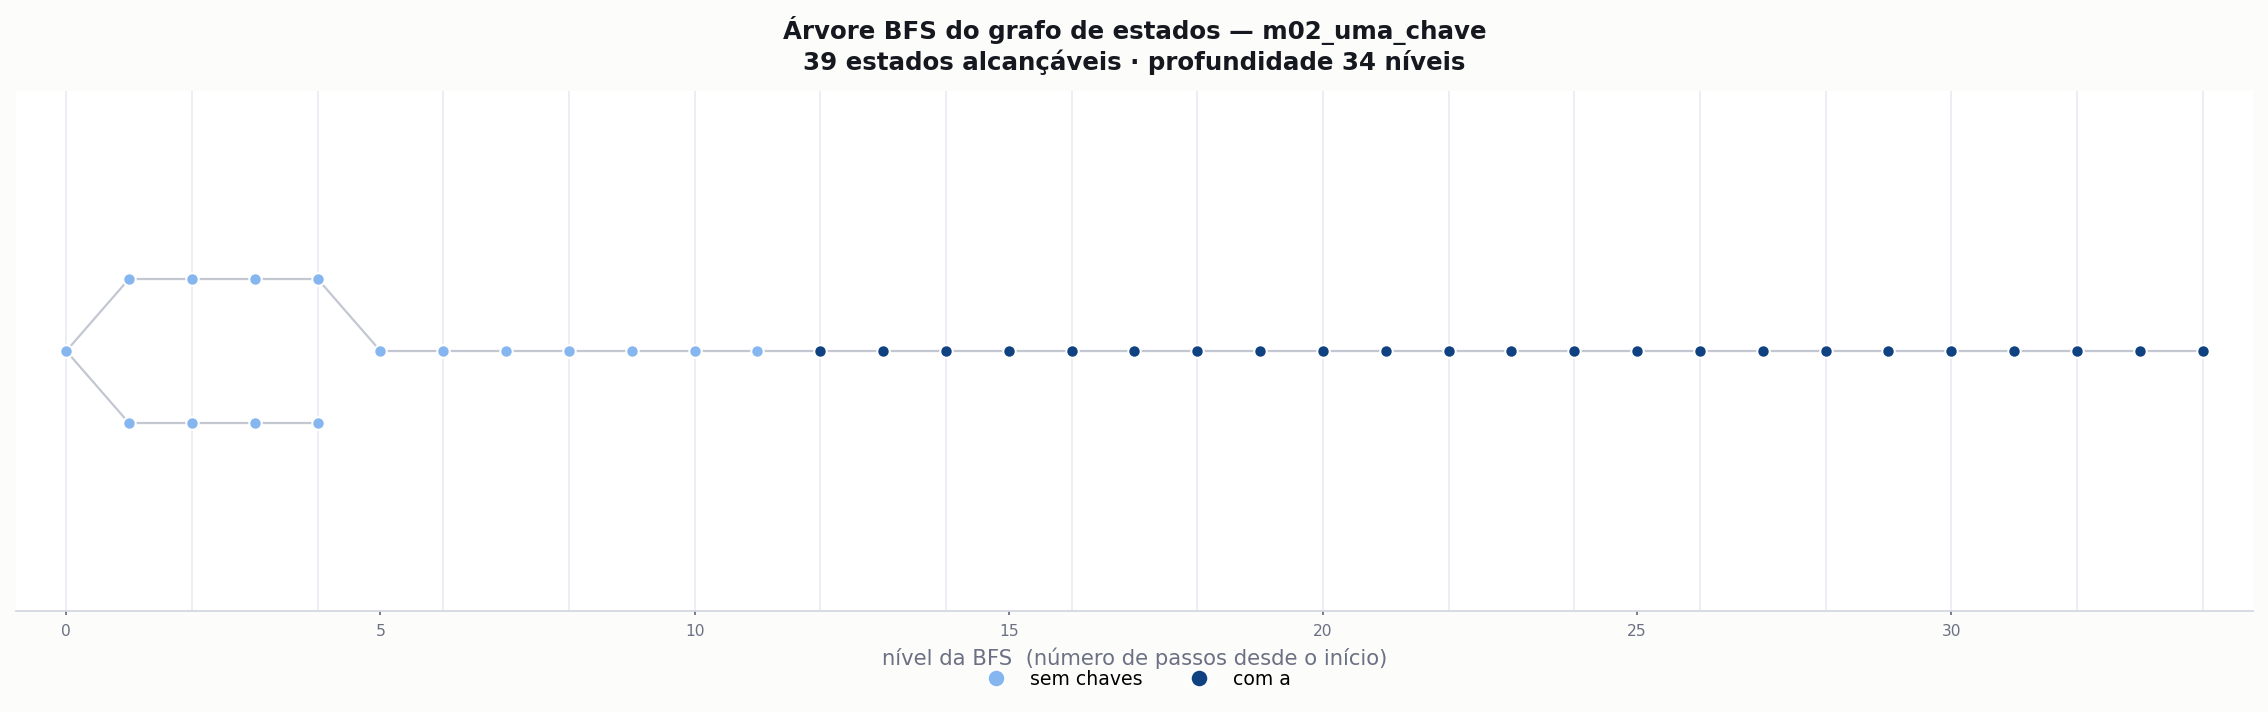
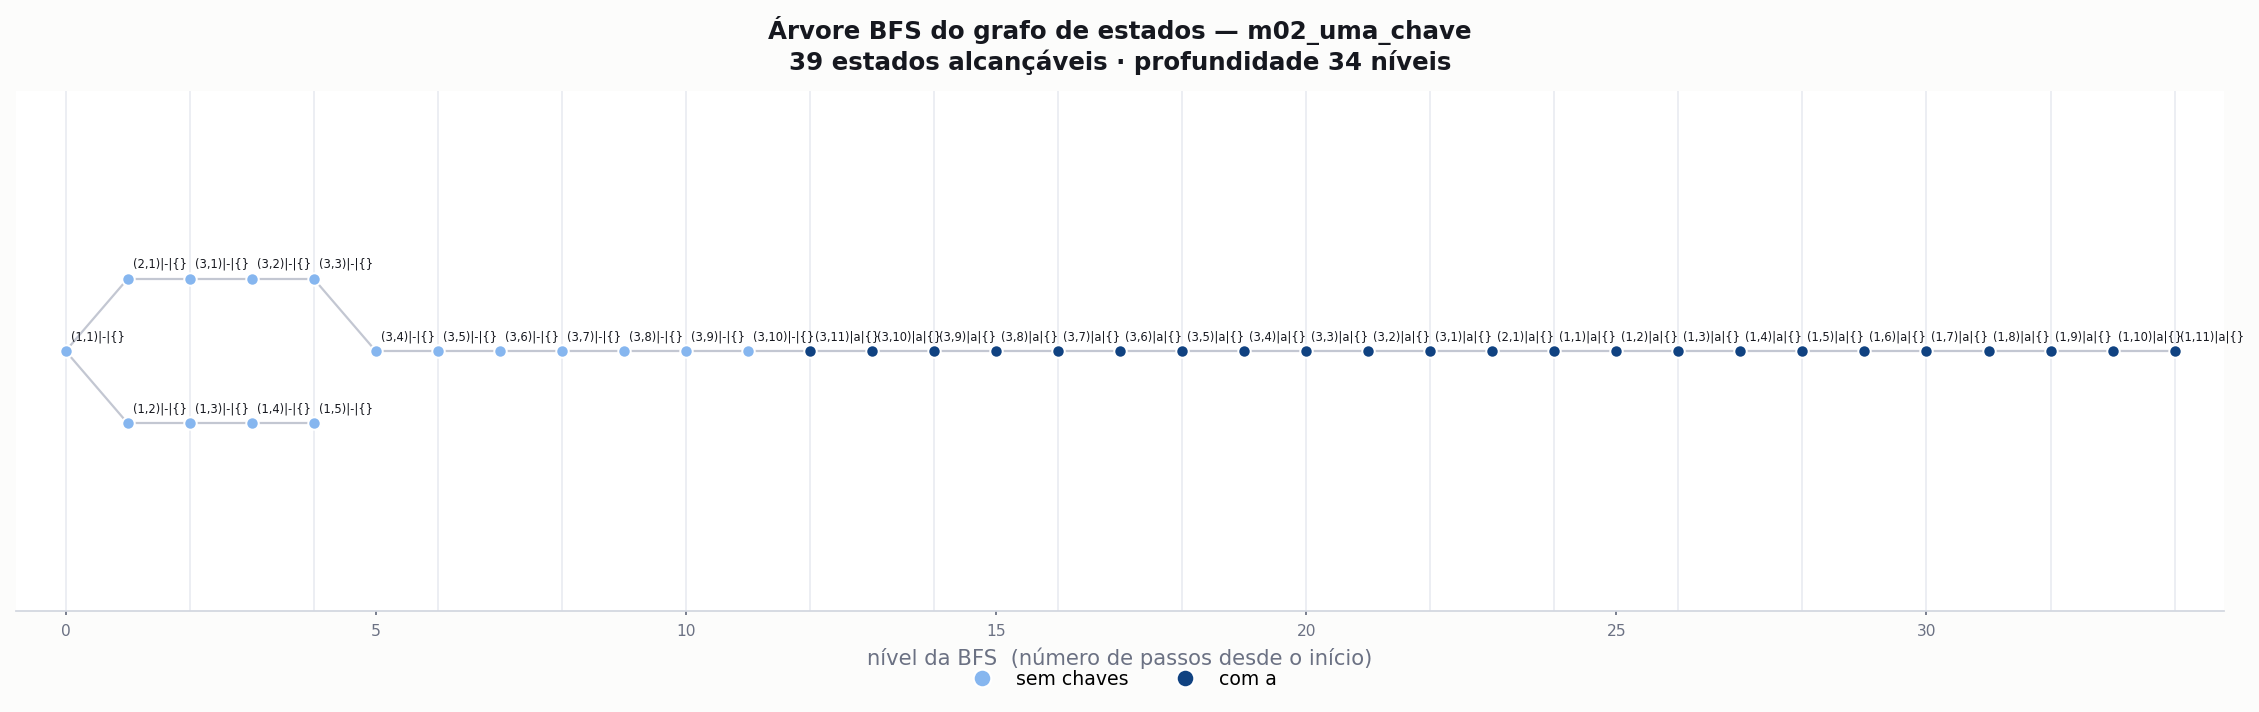
alteracao nos graficos com adicao dos estados

diff --git a/src/viz.py b/src/viz.py
@@ -426,7 +426,9 @@ def figura_camadas(caminho_mapa="data/mapas/m02_uma_chave.txt",
                 continue
             x1, y1 = pos(destino)
             if destino[2] == origem[2]:
-                ax.plot([x0, x1], [y0, y1], color="#c3c7d2", lw=.9, zorder=1)
+                ax.annotate("", (x1, y1), (x0, y0), zorder=1,
+                            arrowprops=dict(arrowstyle="->", color="#c3c7d2",
+                                            lw=1.0, shrinkA=3, shrinkB=3))
                 dentro += 1
             else:
                 ax.annotate("", (x1, y1), (x0, y0), zorder=5,
@@ -440,6 +442,9 @@ def figura_camadas(caminho_mapa="data/mapas/m02_uma_chave.txt",
         x, y = pos(e)
         ax.plot(x, y, "o", markersize=7, color=tons[faixa[e[2]]],
                 markeredgecolor="#ffffff", markeredgewidth=1.0, zorder=4)
+
+        ax.text(x + 0.18, y - 0.12, rotular(e),
+                fontsize=5.5, color=TINTA, zorder=6)
 
     ax.set_xlim(-3.4, n_c + .6)
     ax.invert_yaxis()
@@ -502,6 +507,9 @@ def figura_arvore_bfs(caminho_mapa="data/mapas/m02_uma_chave.txt",
         cor = tons[no[2]]
         ax.plot(x, y, "o", markersize=5.6, color=cor,
                 markeredgecolor="#ffffff", markeredgewidth=.9, zorder=3)
+
+        ax.text(x + 0.08, y + 0.08, rotular(no),
+                fontsize=5.2, color=TINTA, zorder=4)
 
     for n in range(0, fundo + 1, max(1, fundo // 12)):
         ax.axvline(n, color="#e7eaf0", lw=.7, zorder=0)
